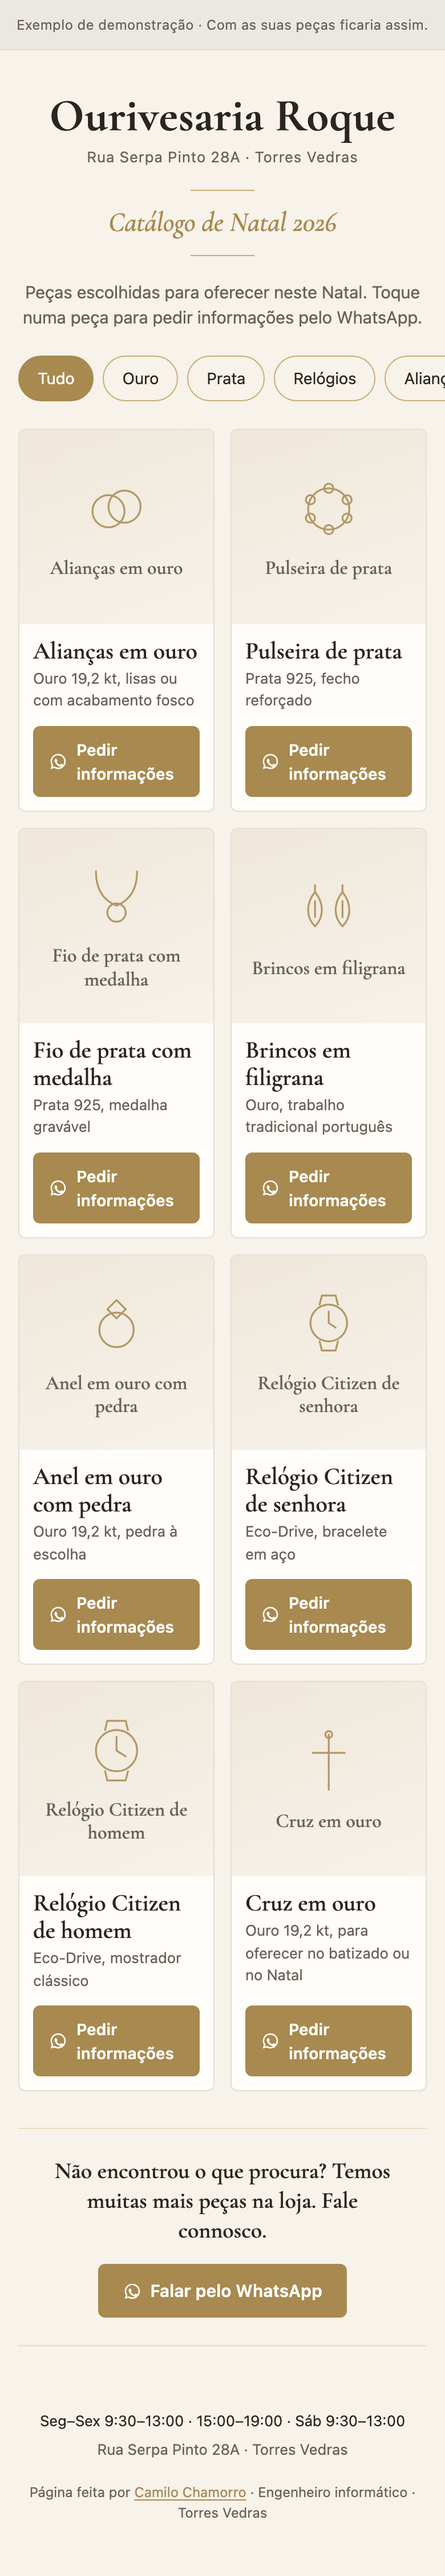
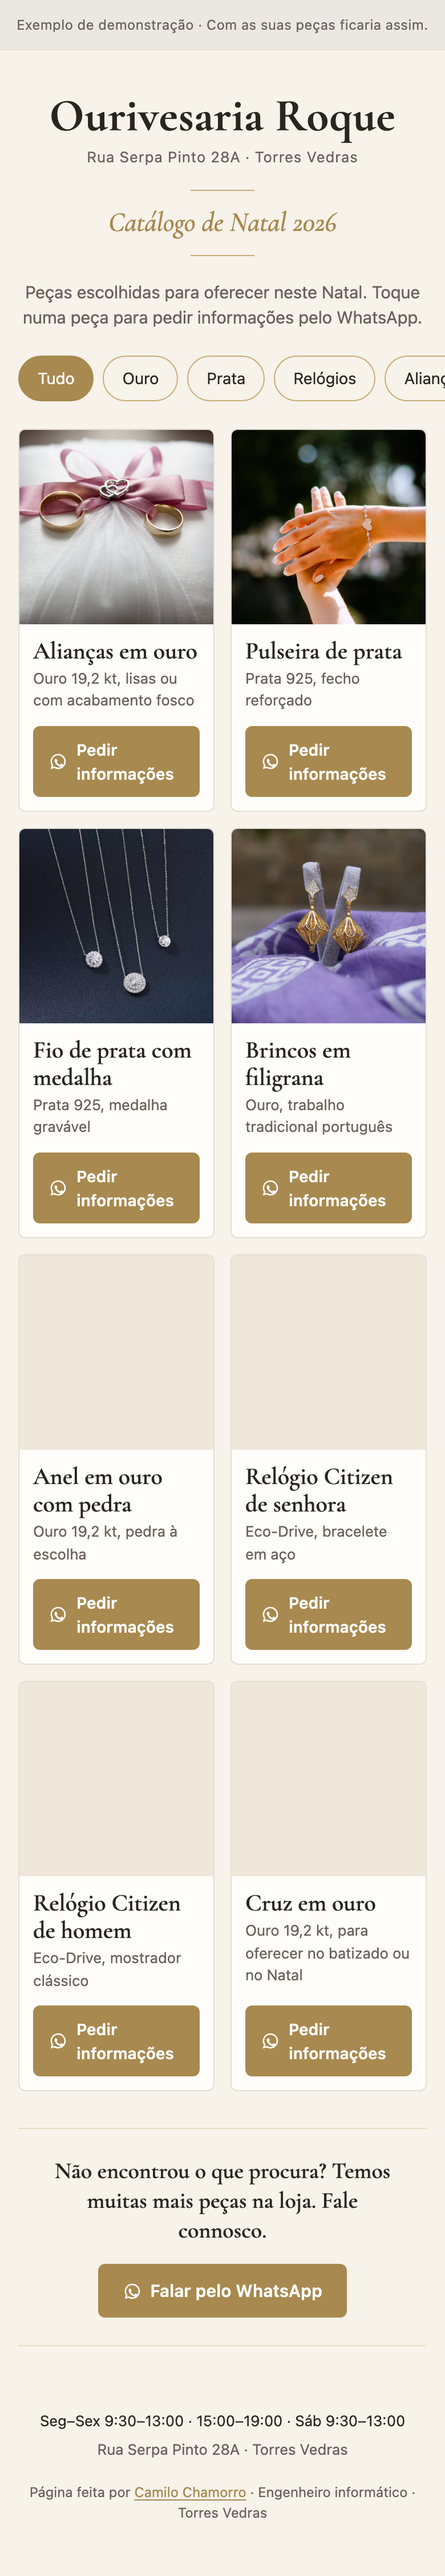
Fotos de amostra (Pexels) e otimizador em Python
Oito fotos 800×800 optimizadas (361 KB no total). O script de imagens
passa a usar Pillow e baixa a qualidade até cumprir o limite de 90 KB.

diff --git a/scripts/optimize-images.py b/scripts/optimize-images.py
@@ -1,0 +1,71 @@
+#!/usr/bin/env python3
+"""Redimensiona y comprime las fotos de las piezas a 800×800 (recorte
+cuadrado centrado) y ~60–90 KB cada una.
+
+Uso:
+  1. Copia las fotos originales en assets/pecas/originais/ con el nombre
+     final (aliancas.jpg, pulseira-prata.jpg, ...). Vale .jpg, .jpeg, .png,
+     .webp o .heic (HEIC solo si está instalado pillow-heif).
+  2. python3 scripts/optimize-images.py
+  3. Las versiones optimizadas quedan en assets/pecas/<nombre>.jpg
+
+Empieza en calidad 72 y baja de 6 en 6 hasta cumplir MAX_KB (mínimo 50).
+
+Requisitos: pip install pillow
+"""
+
+import io
+import sys
+from pathlib import Path
+
+try:
+    from PIL import Image, ImageOps
+except ImportError:
+    sys.exit("Falta 'pillow'. Instala con:  pip install pillow")
+
+ROOT = Path(__file__).resolve().parent.parent
+SRC = ROOT / "assets" / "pecas" / "originais"
+DST = ROOT / "assets" / "pecas"
+SIZE = 800
+QUALITY = 72
+MIN_QUALITY = 50
+MAX_KB = 90
+EXTS = {".jpg", ".jpeg", ".png", ".webp", ".heic"}
+
+
+def main() -> None:
+    if not SRC.is_dir():
+        sys.exit(f"No existe {SRC}. Crea la carpeta y pon ahí las fotos originales.")
+    files = sorted(p for p in SRC.iterdir() if p.suffix.lower() in EXTS)
+    if not files:
+        sys.exit(f"No hay fotos en {SRC}.")
+
+    try:
+        import pillow_heif  # noqa: F401
+        pillow_heif.register_heif_opener()
+    except ImportError:
+        pass
+
+    total = 0
+    for f in files:
+        im = ImageOps.exif_transpose(Image.open(f)).convert("RGB")
+        im = ImageOps.fit(im, (SIZE, SIZE), Image.LANCZOS, centering=(0.5, 0.5))
+        q = QUALITY
+        while True:
+            buf = io.BytesIO()
+            im.save(buf, "JPEG", quality=q, optimize=True, progressive=True, subsampling=2)
+            kb = len(buf.getvalue()) // 1024
+            if kb <= MAX_KB or q <= MIN_QUALITY:
+                break
+            q -= 6
+        out = DST / (f.stem + ".jpg")
+        out.write_bytes(buf.getvalue())
+        total += kb
+        flag = f"  <-- sigue por encima de {MAX_KB} KB a calidad {q}; busca otra foto" if kb > MAX_KB else ""
+        print(f"{out.name:<28}{kb:4d} KB  (calidad {q}){flag}")
+
+    print(f"Total fotos: {total} KB. Listo; comprueba el resultado en el navegador.")
+
+
+if __name__ == "__main__":
+    main()

diff --git a/README.md b/README.md
@@ -20,6 +20,21 @@ Abre http://localhost:8000. Para verla en el móvil dentro de la misma wifi, usa
 
 Van en `assets/pecas/` con **exactamente** estos nombres. Mientras falte una foto, la tarjeta muestra un placeholder crema con un motivo de la categoría; nunca un icono roto.
 
+La demo ya lleva 8 fotos de archivo de Pexels (licencia Pexels: uso comercial libre, sin atribución obligatoria). Son de muestra: la idea es sustituirlas por fotos de las piezas reales de la tienda.
+
+| Fichero | Foto de Pexels usada |
+|---|---|
+| `aliancas.jpg` | https://www.pexels.com/photo/265856/ |
+| `pulseira-prata.jpg` | https://www.pexels.com/photo/34549909/ |
+| `fio-prata.jpg` | https://www.pexels.com/photo/12427695/ |
+| `brincos-filigrana.jpg` | https://www.pexels.com/photo/34010223/ |
+| `anel-ouro.jpg` | https://www.pexels.com/photo/2849742/ |
+| `relogio-senhora.jpg` | https://www.pexels.com/photo/14808296/ |
+| `relogio-homem.jpg` | https://www.pexels.com/photo/1697570/ |
+| `cruz-ouro.jpg` | https://www.pexels.com/photo/9173459/ |
+
+Si quieres buscar otras:
+
 | Fichero | Pieza | Términos de búsqueda (Unsplash / Pexels) |
 |---|---|---|
 | `aliancas.jpg` | Alianças em ouro | `gold wedding bands white background`, `two gold rings close up`, `matte gold wedding rings` |
@@ -38,10 +53,11 @@ Busca fotos con fondo claro o blanco para que encajen con el fondo crema. Compru
 Copia los originales en `assets/pecas/originais/` con el nombre final y ejecuta:
 
 ```bash
-bash scripts/optimize-images.sh
+pip install pillow
+python3 scripts/optimize-images.py
 ```
 
-Recorta a cuadrado, redimensiona a 800×800 y comprime a ~60–80 KB. Usa ImageMagick si está instalado y, si no, `sips` (incluido en macOS). Si alguna sale por encima de 90 KB, el script lo avisa; baja `QUALITY` en el script. Con 8 fotos de ≤ 80 KB la página entera queda por debajo de 600 KB (HTML + CSS + JS pesan unos 25 KB).
+Recorta a cuadrado, redimensiona a 800×800 y comprime empezando en calidad 72 y bajando hasta que cada foto pese ≤ 90 KB. Si alguna no baja ni a calidad 50 (fondos con mucho grano), el script lo avisa: mejor buscar otra foto. Con las 8 actuales la página entera pesa unos 400 KB (HTML + CSS + JS son 24 KB).
 
 ## Número de WhatsApp
 
@@ -108,6 +124,6 @@ assets/app.js
 assets/pecas/            fotos optimizadas (800×800 .jpg)
 assets/pecas/originais/  originales (ignorado por git)
 scripts/make-qr.py
-scripts/optimize-images.sh
+scripts/optimize-images.py
 preview-mobile.png       captura a 390 px
 ```
